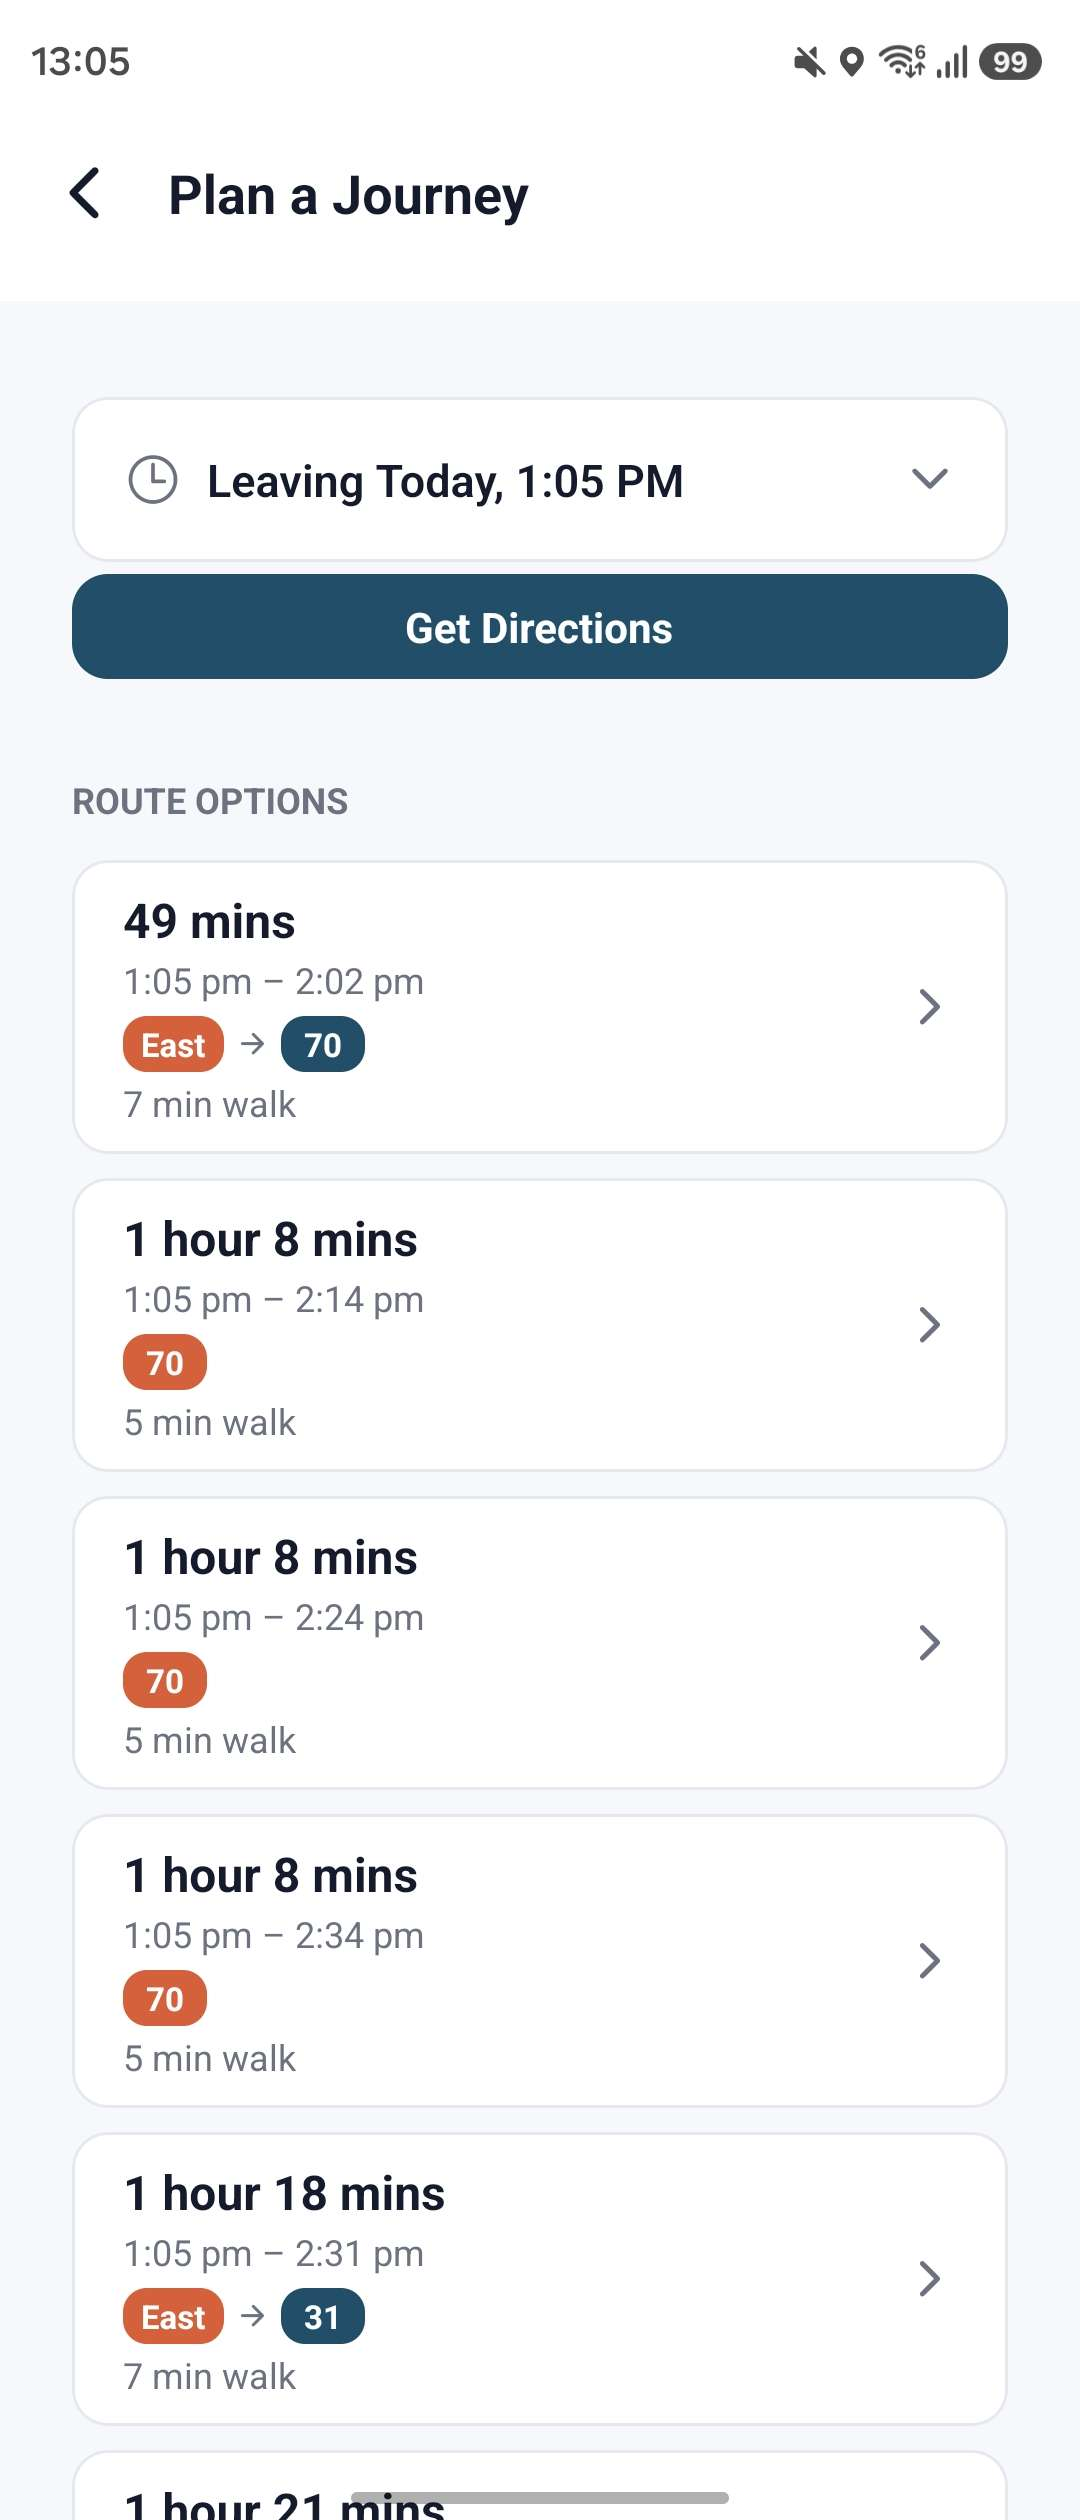
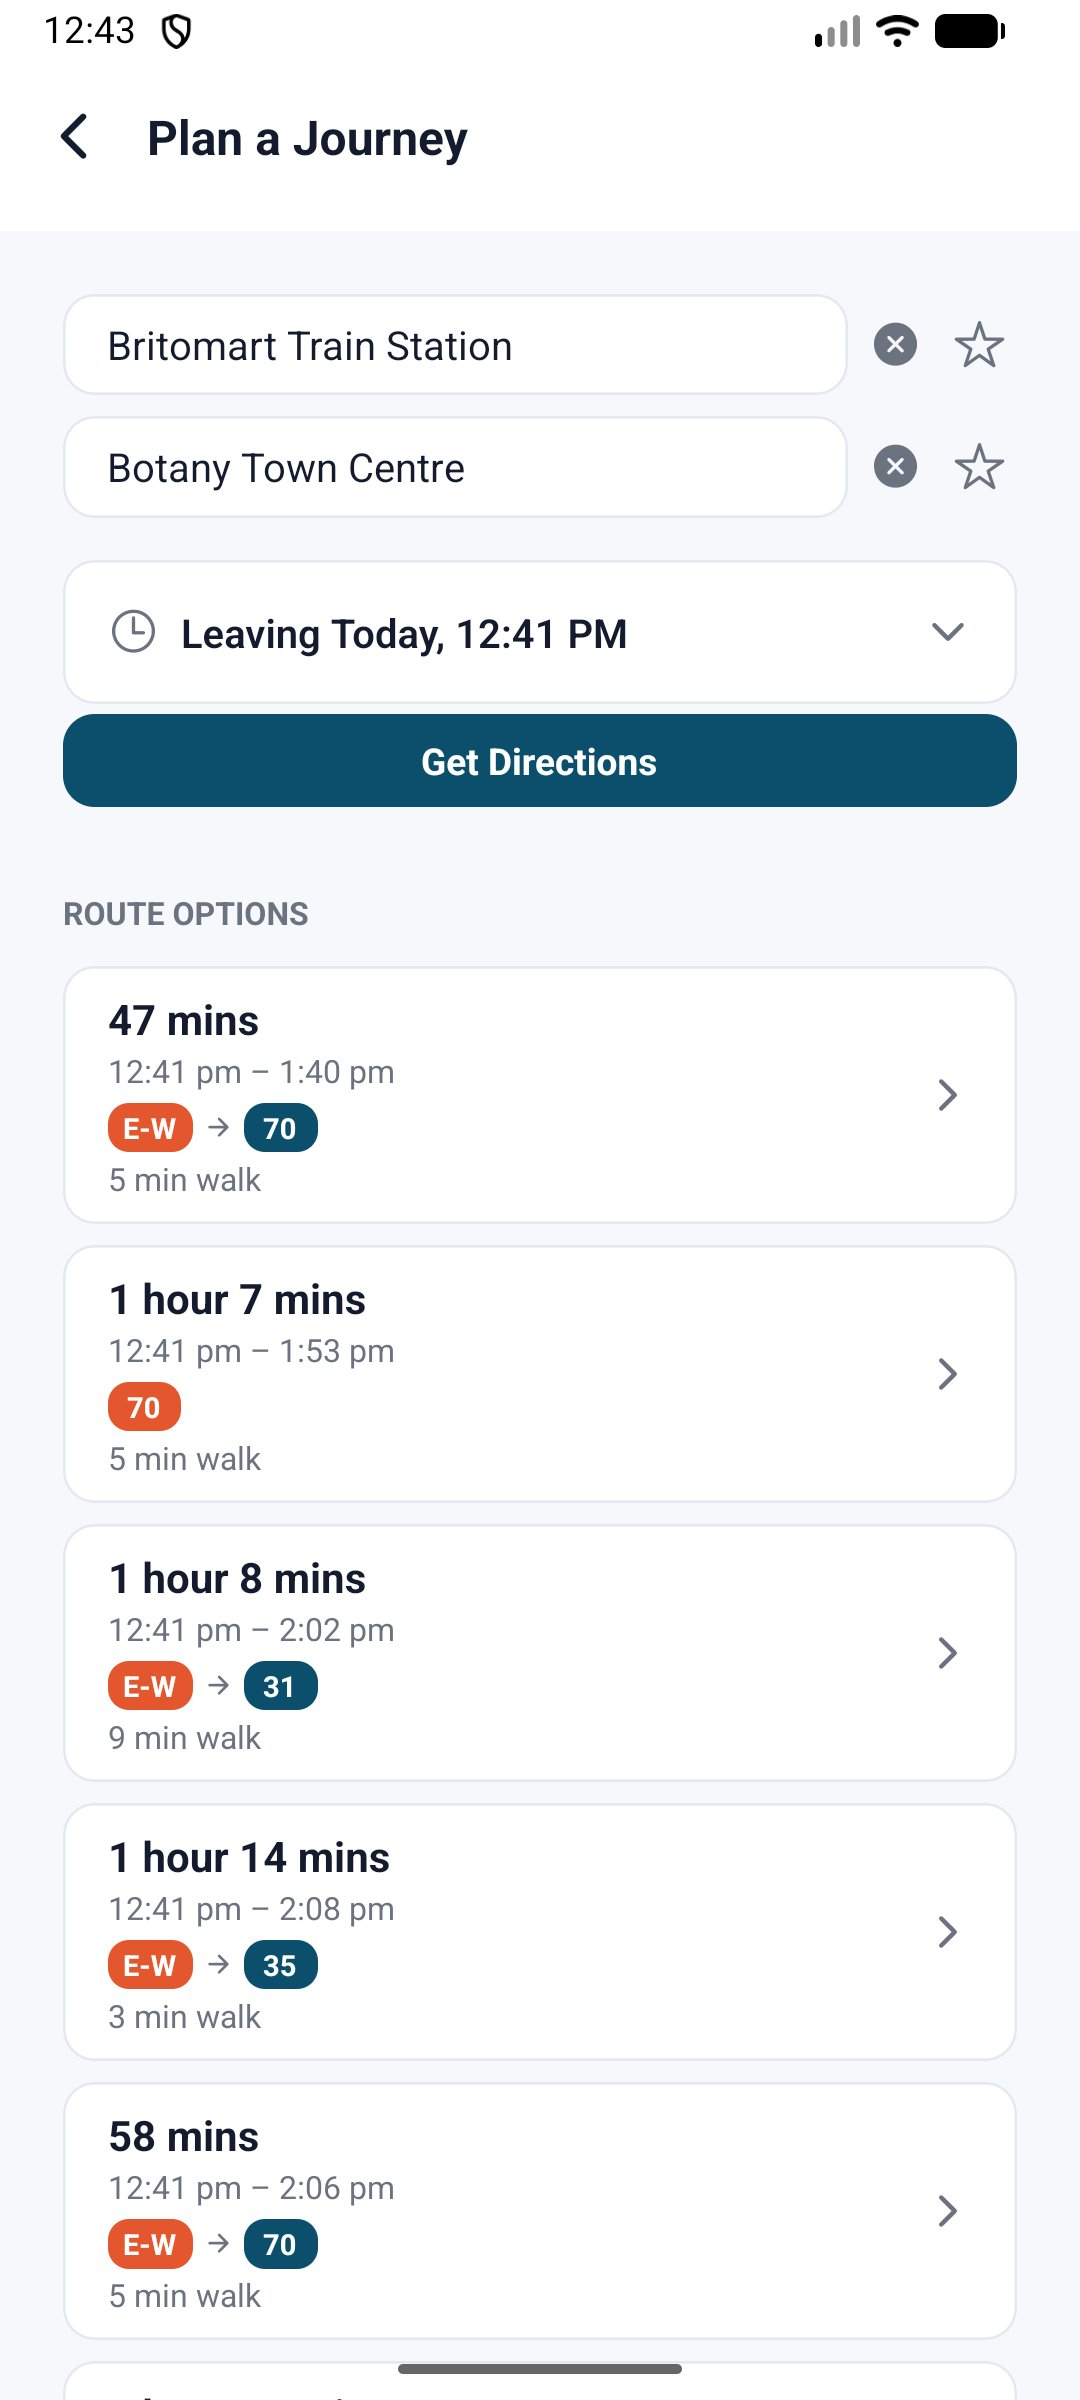
Refresh README screenshots to match the current app
The July screenshots predated the color theme, icon, heading-arrow
badges, bordered stop markers, and per-leg stop list — all shipped
since. New ones taken from a local Android emulator (light mode, GPS
faked to a public landmark, no real device or location involved):

- live-map.jpg: heading-arrow vehicle badges and bordered stop markers
- route-options.jpg: a real Britomart -> Botany Town Centre search
- stop-list.jpg: the same route's full per-leg stop list expanded

diff --git a/README.md b/README.md
@@ -7,9 +7,9 @@ Built against Auckland Transport's public GTFS + GTFS-Realtime APIs and Google's
 ## Screenshots
 
 <p float="left">
-  <img src="images/journey-planner.jpg" width="32%" alt="Journey planner with live bus stops shown on the map" />
+  <img src="images/live-map.jpg" width="32%" alt="Live map with heading-direction vehicle badges and bordered stop markers" />
   <img src="images/route-options.jpg" width="32%" alt="Route options with travel times, transfers, and walking distance" />
-  <img src="images/route-preview.jpg" width="32%" alt="Turn-by-turn route preview with an estimated AT HOP fare" />
+  <img src="images/stop-list.jpg" width="32%" alt="Route preview with the full per-leg stop list expanded" />
 </p>
 
 ## Why I built this
